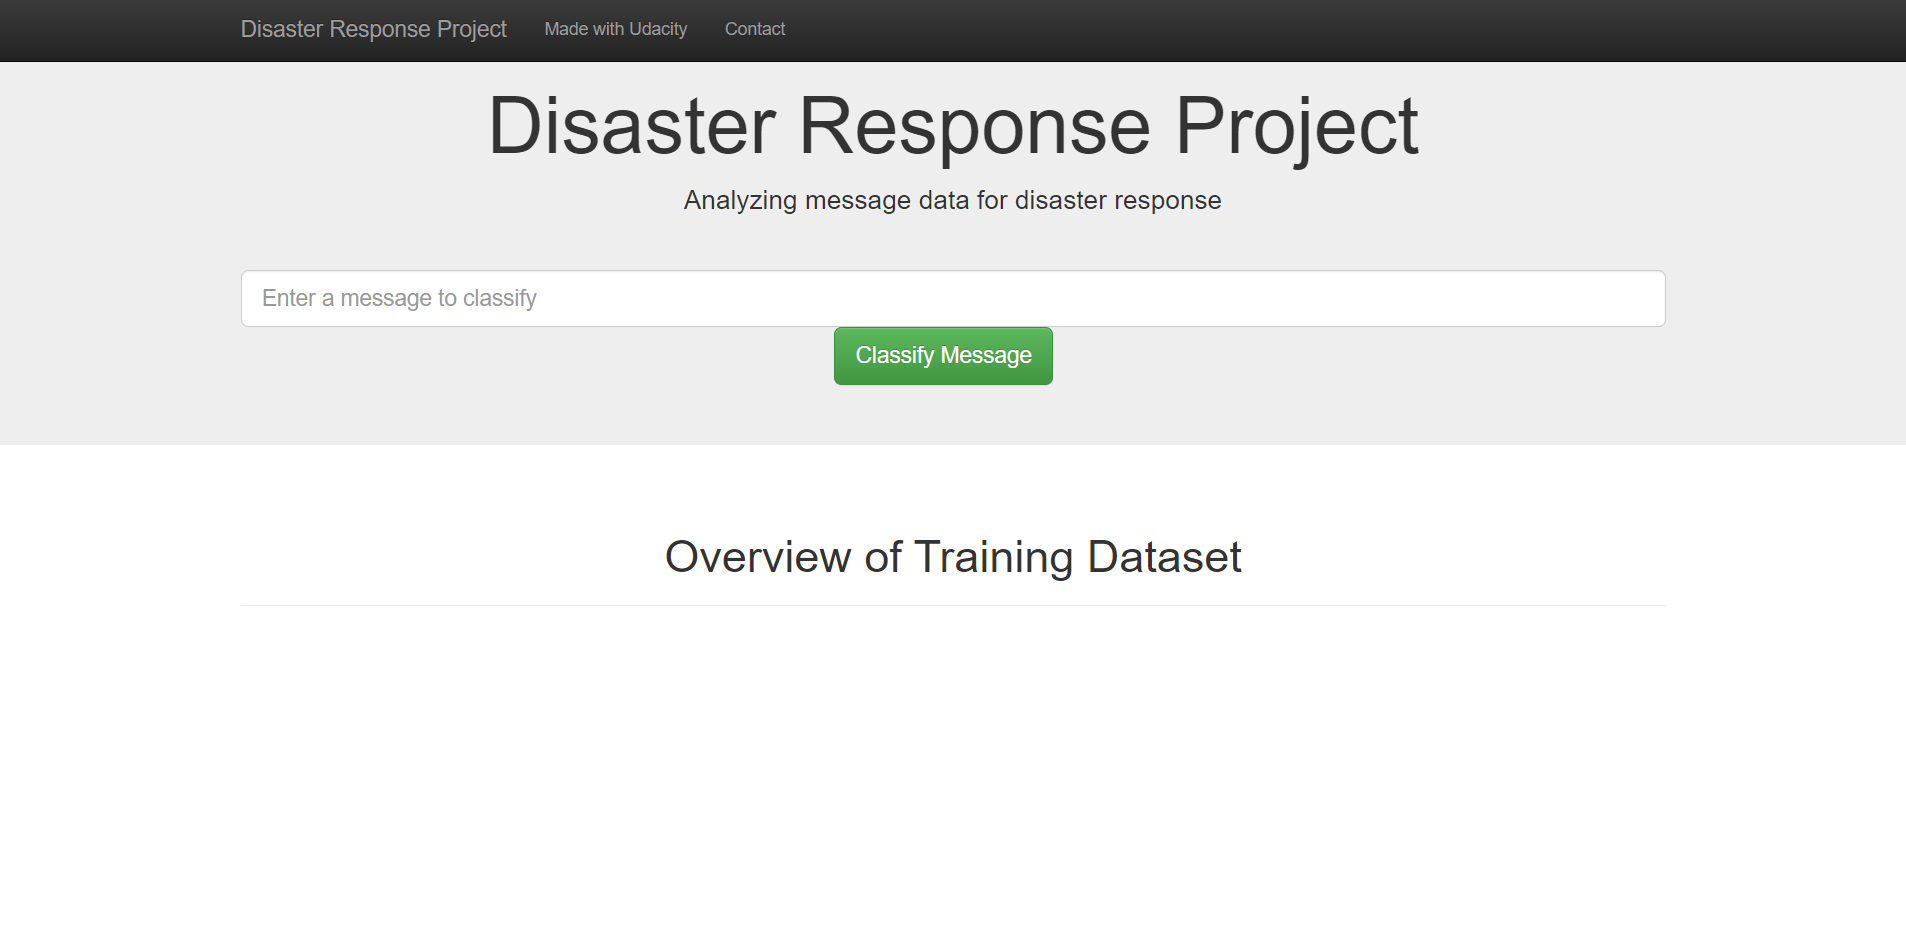
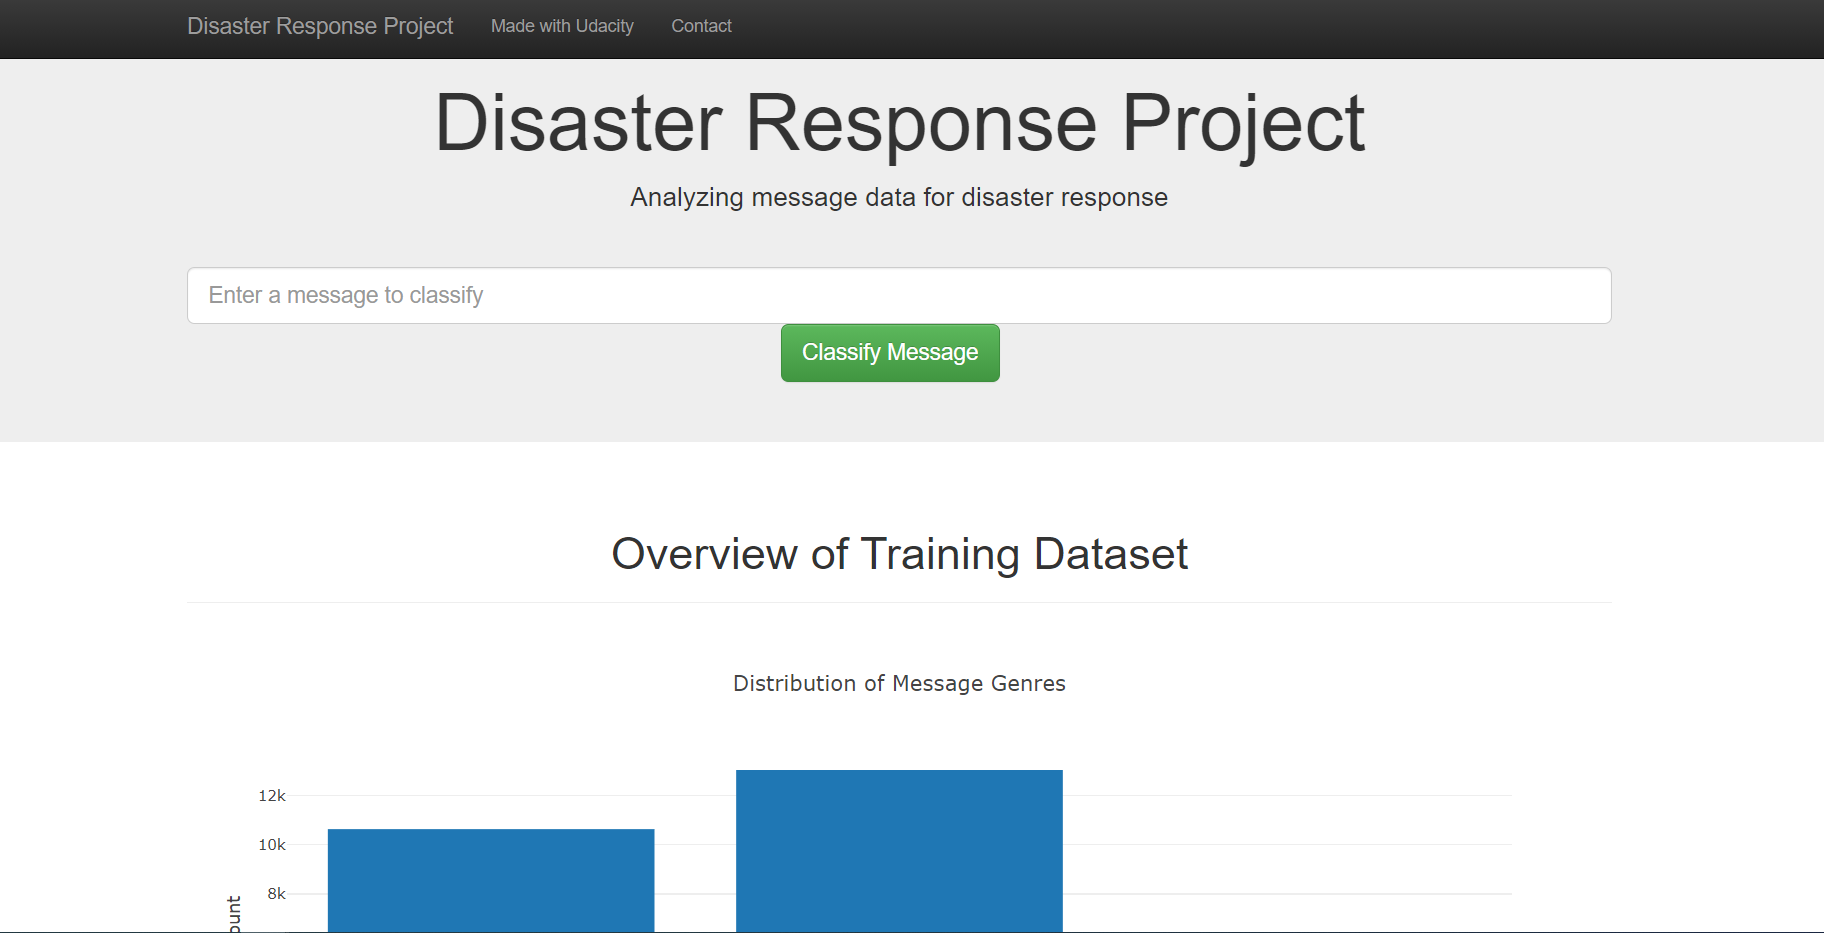
Added more screenshots, charts, Motivation  and aknowledgements

diff --git a/app/templates/.ipynb_checkpoints/go-checkpoint.html b/app/templates/.ipynb_checkpoints/go-checkpoint.html
@@ -1,0 +1,24 @@
+{% extends "master.html" %}
+{% block title %}Results{% endblock %}
+
+{% block message %}
+    <hr />
+    <h4 class="text-center">MESSAGE</h4>
+    <p class="text-center"><i>{{query}}</i></p>
+{% endblock %}
+
+{% block content %}
+    <h1 class="text-center">Result</h1>
+        <ul class="list-group">
+            {% for category, classification in classification_result.items() %}
+                {% if classification == 1 %}
+                    <li class="list-group-item list-group-item-success text-center">{{category.replace('_', ' ').title()}}</li>
+                {% else %}
+                    <li class="list-group-item list-group-item-dark text-center">{{category.replace('_', ' ').title()}}</li>
+                {% endif %}
+            {% endfor %}
+
+        </div>
+    </div>
+
+{% endblock %}
